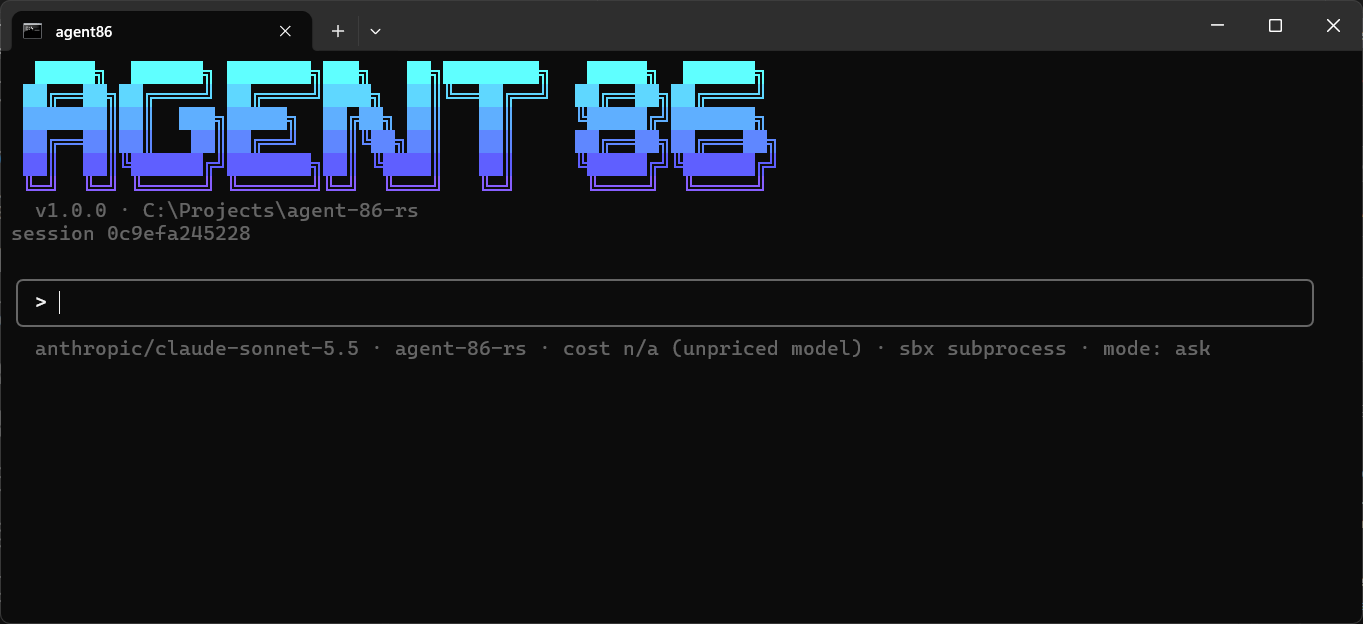
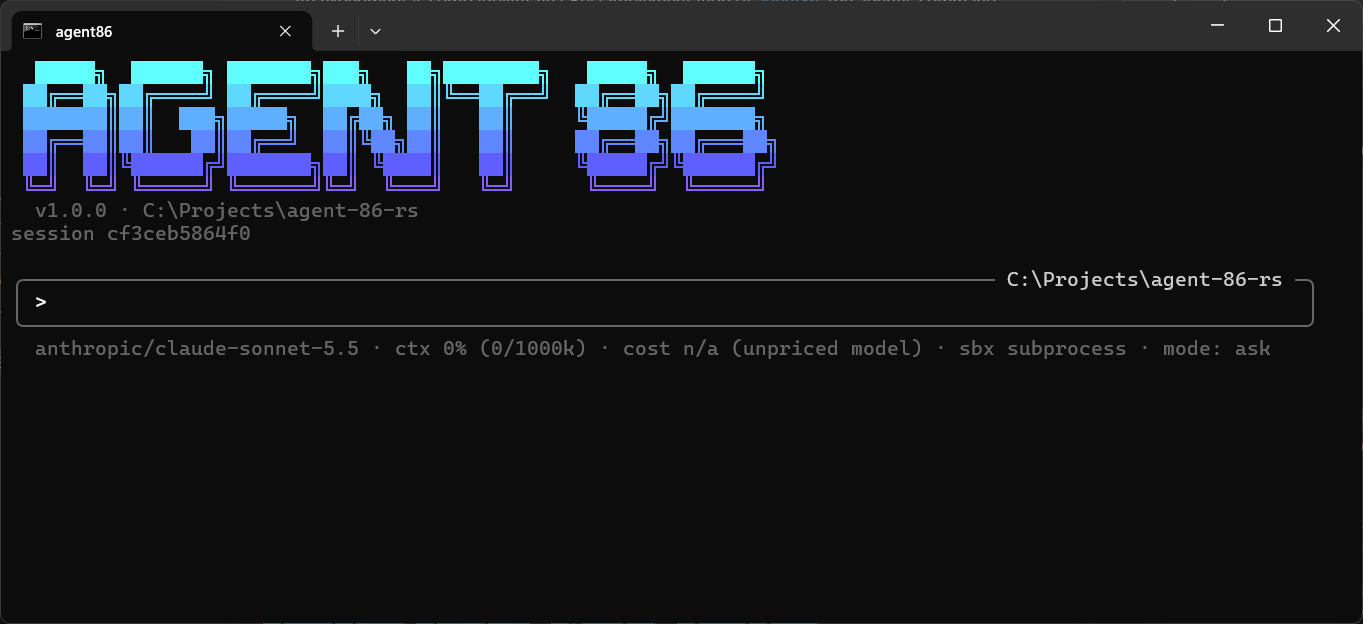
Move the working directory into the input box's border
On a terminal around 110 columns, the directory on the status line
pushed out the context gauge whenever the model name was long. The
status line goes back to Python's segments, and the directory is set
right-aligned into the input box's top border instead: always on screen,
never competing for the status line's width. A narrow box shows its last
component, then none. The README screenshot is retaken.

Changed region(s): [[0.2773, 0.5481, 0.9244, 0.5785], [0.7395, 0.4263, 0.9552, 0.4567], [0.0616, 0.3654, 0.1849, 0.3958]]

diff --git a/src/ui/input.rs b/src/ui/input.rs
@@ -6,7 +6,8 @@
 //! is kept while history is browsed and handed back past the newest entry. Any
 //! edit ends browsing: what is on screen is then the user's draft.
 
-use super::text::Line;
+use super::status::last_component;
+use super::text::{sanitize, Line};
 use crate::repl::Style;
 use unicode_width::UnicodeWidthChar;
 
@@ -260,8 +261,14 @@ impl Editor {
     }
 
     /// The bordered input box, `width` cells wide, and the caret within it.
-    /// `active` is false while a turn runs: the draft is kept but dimmed.
-    pub fn render(&mut self, width: usize, active: bool) -> (Vec<Line>, (usize, usize)) {
+    /// `active` is false while a turn runs: the draft is kept but dimmed. `title`
+    /// (the working directory, beyond Python) sits right-aligned in the top border.
+    pub fn render(
+        &mut self,
+        width: usize,
+        active: bool,
+        title: &str,
+    ) -> (Vec<Line>, (usize, usize)) {
         let width = width.max(8);
         // "│ > " before the text and " │" after it.
         let inner = width - 6;
@@ -274,7 +281,7 @@ impl Editor {
         let shown = &rows[self.scroll..rows.len().min(self.scroll + MAX_ROWS)];
         let border = Style::Dim;
         let text_style = if active { Style::Plain } else { Style::Dim };
-        let mut lines = vec![Line::styled(border, format!("╭{}╮", "─".repeat(width - 2)))];
+        let mut lines = vec![top_border(width, title)];
         for (index, row) in shown.iter().enumerate() {
             let lead = if self.scroll + index == 0 { "> " } else { "  " };
             let pad = inner.saturating_sub(unicode_width::UnicodeWidthStr::width(row.as_str()));
@@ -289,6 +296,29 @@ impl Editor {
         lines.push(Line::styled(border, format!("╰{}╯", "─".repeat(width - 2))));
         (lines, (1 + caret_row - self.scroll, 4 + caret_col))
     }
+}
+
+/// The box's top border with `title` set into it near the right corner. A title
+/// too long for the width falls back to its last component, then to none, so the
+/// border keeps at least a few cells of rule on the left.
+fn top_border(width: usize, title: &str) -> Line {
+    let title = sanitize(title);
+    let fits = |text: &str| {
+        let cells = unicode_width::UnicodeWidthStr::width(text);
+        (!text.is_empty() && cells + 8 <= width).then_some(cells)
+    };
+    let short = last_component(&title).to_owned();
+    let Some((title, cells)) = fits(&title)
+        .map(|cells| (title.clone(), cells))
+        .or_else(|| fits(&short).map(|cells| (short, cells)))
+    else {
+        return Line::styled(Style::Dim, format!("╭{}╮", "─".repeat(width - 2)));
+    };
+    // "╭" + rule + " title " + "─╮"
+    let rule = width - cells - 5;
+    Line::styled(Style::Dim, format!("╭{} ", "─".repeat(rule)))
+        .push(Style::Plain, title)
+        .push(Style::Dim, " ─╮")
 }
 
 #[cfg(test)]
@@ -381,13 +411,33 @@ mod tests {
     #[test]
     fn the_box_is_bordered_and_scrolls_past_eight_rows() {
         let mut editor = typed("hi");
-        let (lines, caret) = editor.render(20, true);
+        let (lines, caret) = editor.render(20, true, "");
         assert_eq!(lines[0].plain_text(), format!("╭{}╮", "─".repeat(18)));
         assert_eq!(lines[1].plain_text(), format!("│ > hi{} │", " ".repeat(12)));
         assert_eq!(caret, (1, 6));
         let mut tall = typed(&"x\n".repeat(12));
-        let (lines, caret) = tall.render(20, true);
+        let (lines, caret) = tall.render(20, true, "");
         assert_eq!(lines.len(), MAX_ROWS + 2);
         assert_eq!(caret.0, MAX_ROWS);
+    }
+
+    #[test]
+    fn the_working_directory_sits_in_the_top_border() {
+        let row = |width, title| top_border(width, title).plain_text();
+        assert_eq!(
+            row(30, "~/src/app"),
+            format!("╭{} ~/src/app ─╮", "─".repeat(16))
+        );
+        // Too long for the width: the last component, then a bare border.
+        assert_eq!(row(14, "~/src/app"), format!("╭{} app ─╮", "─".repeat(6)));
+        assert_eq!(row(10, "~/src/app"), format!("╭{}╮", "─".repeat(8)));
+        for width in [10, 14, 30] {
+            assert_eq!(
+                unicode_width::UnicodeWidthStr::width(row(width, "~/src/app").as_str()),
+                width
+            );
+        }
+        // Untrusted text from the filesystem cannot carry escape sequences.
+        assert!(!row(40, "~/a\x1b[31mb").contains('\x1b'));
     }
 }

diff --git a/src/ui/status.rs b/src/ui/status.rs
@@ -2,14 +2,10 @@
 //! `tui/widgets/status_footer.py` (how much of it fits).
 //!
 //! Under width pressure the line sheds, in order, the `[Shift+Tab]` hint (also in
-//! `/help`), the token counts (one `/cost` away), the working directory's parents
-//! (its last component stays), and the context gauge (the last to go, since a full
-//! window is the failure it exists to show). The model, the directory, the cost,
+//! `/help`), the token counts (one `/cost` away), and the context gauge (the last to
+//! go, since a full window is the failure it exists to show). The model, the cost,
 //! the approval mode, and the working indicator are never shed: they say what is
-//! running, where, what it costs, and whether it can act without asking.
-//!
-//! The working directory is beyond Python, whose status line has none: the banner
-//! that names it scrolls away, and the status line is the one row always on screen.
+//! running, what it costs, and whether it can act without asking.
 
 use std::path::Path;
 
@@ -18,15 +14,17 @@ use crate::tools::display_path;
 use crate::turn::human_tokens;
 use unicode_width::UnicodeWidthStr;
 
-/// Segment keys, in the order they are given up. `cwd` is shortened, not dropped.
-const SHED_ORDER: [&str; 4] = ["hint", "tok", "cwd", "ctx"];
+/// Segment keys, in the order they are given up.
+const SHED_ORDER: [&str; 3] = ["hint", "tok", "ctx"];
 
 /// What the status line reports, as Python's `StatusState`.
 #[derive(Debug, Clone, Default, PartialEq)]
 pub struct StatusState {
     /// The bare model id.
     pub model: String,
-    /// The working directory as shown (see `short_path`); empty shows none.
+    /// The working directory as shown (see `short_path`), beyond Python. It is not
+    /// part of the line: the input box's top border carries it, so it never
+    /// competes with the segments for width. Empty shows none.
     pub cwd: String,
     /// Input tokens of the latest model call: how full the context is.
     pub used_tokens: u64,
@@ -88,7 +86,7 @@ pub fn short_path(path: &Path, home: Option<&Path>) -> String {
 }
 
 /// The last component of a shown path (`~/src/app` → `app`).
-fn last_component(path: &str) -> &str {
+pub fn last_component(path: &str) -> &str {
     path.trim_end_matches(['/', '\\'])
         .rsplit(['/', '\\'])
         .next()
@@ -96,13 +94,9 @@ fn last_component(path: &str) -> &str {
         .unwrap_or(path)
 }
 
-/// The line's labelled parts, in display order, as Python's `status_segments`,
-/// plus the working directory after the model.
+/// The line's labelled parts, in display order, as Python's `status_segments`.
 pub fn status_segments(state: &StatusState) -> Vec<(&'static str, String)> {
     let mut segments = vec![("model", state.model.clone())];
-    if !state.cwd.is_empty() {
-        segments.push(("cwd", state.cwd.clone()));
-    }
     if state.working {
         let phase = if state.phase.is_empty() {
             "working"
@@ -163,15 +157,7 @@ pub fn fit_status_line(state: &StatusState, width: usize) -> String {
         return line;
     }
     for key in SHED_ORDER {
-        if key == "cwd" {
-            for (segment, text) in segments.iter_mut() {
-                if *segment == "cwd" {
-                    *text = last_component(text).to_owned();
-                }
-            }
-        } else {
-            segments.retain(|(segment, _)| *segment != key);
-        }
+        segments.retain(|(segment, _)| *segment != key);
         line = join_segments(&segments);
         if line.width() <= width {
             break;
@@ -253,18 +239,10 @@ mod tests {
     }
 
     #[test]
-    fn the_working_directory_follows_the_model_and_is_shortened_not_shed() {
+    fn the_working_directory_stays_off_the_line() {
         let mut here = state();
         here.cwd = "~/src/app".into();
-        let full = fit_status_line(&here, 0);
-        assert!(full.starts_with("gpt-4o-mini · ~/src/app · ctx "), "{full}");
-        let no_tokens = fit_status_line(&here, full.width() - 20);
-        assert!(no_tokens.contains(" · ~/src/app · "), "{no_tokens}");
-        let minimal = fit_status_line(&here, 10);
-        assert_eq!(
-            minimal,
-            "gpt-4o-mini · app · $0.0123 · sbx subprocess · mode: ask"
-        );
+        assert_eq!(fit_status_line(&here, 0), fit_status_line(&state(), 0));
     }
 
     #[test]

diff --git a/src/ui/app.rs b/src/ui/app.rs
@@ -1122,7 +1122,9 @@ impl App {
             });
             caret_base = 0;
         } else {
-            let (lines, (row, col)) = self.editor.render(width, self.running.is_none());
+            let (lines, (row, col)) =
+                self.editor
+                    .render(width, self.running.is_none(), &self.status.cwd);
             caret_base = bottom.len();
             if self.running.is_none() {
                 caret = Some((row, col));

diff --git a/docs/INTERFACE.md b/docs/INTERFACE.md
@@ -37,7 +37,7 @@ Non-goals:
 | Turns | Text the model streams, harness notices, `[cancelled]`, error type and message, the hint `see agent86 trace show -s <id>`, the turn summary line | Markers, colours, layout |
 | Tools | What a block shows: the name, the argument preview, the result's first line, and the full arguments and result when expanded; `ok` versus error colouring | `⏺`/`⎿` shape; expanded view lives in the transcript view |
 | Approvals | When a prompt appears, what it shows (tool name, argument summary, tool detail such as the diff), the answers (approve, deny, Escape denies), deny on shutdown | Inline panel with numbered choices |
-| Status line | Segments, their text, and the order they are shed under width pressure (`status_segments`, `fit_status_line`) | Where it sits and its colours; the working directory segment (beyond Python) |
+| Status line | Segments, their text, and the order they are shed under width pressure (`status_segments`, `fit_status_line`) | Where it sits and its colours |
 | Files | `memory.db`, the history file, config write-back (comments preserved, secret guard, user/project scope), keyring entries | — |
 | Startup | Surface selection rules, startup notes, MCP notes, the compact banner's content (version and model) | The header: a gradient `AGENT 86` wordmark over the version and working directory |
 | Cancellation | Safe points, saved state, `turn_end` status `cancelled` | Key hints in the spinner line |
@@ -67,10 +67,10 @@ memory: …   (startup notes, dim)              │  scrollback
                                               │
 ⏺ I found the typo on line 3.                 ┘
 ✻ Running edit_file… (14s · esc to interrupt)   ┐
-╭────────────────────────────────────────────╮  │
+╭──────────────────────────────────── ~/app ─╮  │
 │ > _                                        │  │  live region
 ╰────────────────────────────────────────────╯  │  (redrawn)
-  gpt-4o · ~/app · running edit_file… · sbx subprocess · mode: ask  [Shift+Tab]  ┘
+  gpt-4o · running edit_file… · sbx subprocess · mode: ask  [Shift+Tab]  ┘
 ```
 
 From top to bottom, the live region holds:
@@ -78,8 +78,8 @@ From top to bottom, the live region holds:
 1. **The streaming tail:** the part of the current reply that is not yet complete enough to commit (section 6). It is capped at about 40% of the screen height, like Python's `#stream`.
 2. **The spinner line,** only while a turn runs. It shows a spinner glyph, the phase (`Thinking…`, `Running edit_file…`, `Cancelling…`), and the elapsed time. The hint is `esc to interrupt`. With `[ui] spinner = false` the glyph is static.
 3. **A menu or a panel.** A menu (the `/` commands or `@` paths) sits under the input box. A panel (an approval or a picker) replaces the input box while it is open.
-4. **The input box:** bordered, one to eight rows, scrolling after eight, like Python's `PromptInput`. It is disabled while a turn runs, but it still shows its draft.
-5. **The status line:** Python's `fit_status_line` text plus the working directory after the model, dim, one row. The directory is never dropped; under width pressure it shrinks to its last component.
+4. **The input box:** bordered, one to eight rows, scrolling after eight, like Python's `PromptInput`. It is disabled while a turn runs, but it still shows its draft. Its top border carries the working directory, right-aligned (beyond Python; home as `~`, the last component when the box is narrow).
+5. **The status line:** Python's `fit_status_line` text, dim, one row.
 
 ## 4. Visual vocabulary
 

diff --git a/docs/PROJECT_PLAN.md b/docs/PROJECT_PLAN.md
@@ -74,7 +74,8 @@ The Python implementation remains the reference and compatibility oracle. This p
   - harness notices, dim, on their own line
   - each tool call shown while it runs, then committed as `⏺ name(args)` and `⎿ summary` when its result lands (Python's 72- and 100-character previews; red when the call failed)
   - a spinner line with the phase (`thinking`, `running <tool>`, `cancelling`) and the elapsed time
-  - Python's status line (model, context gauge, tokens, cost, sandbox, approval mode, `[Shift+Tab]`) plus the working directory after the model (beyond Python, home shown as `~`), which drops the hint, then the tokens, shortens the directory to its last component, then drops the gauge as the terminal narrows
+  - Python's status line (model, context gauge, tokens, cost, sandbox, approval mode, `[Shift+Tab]`), which drops the hint, then the tokens, then the gauge as the terminal narrows
+  - the working directory (beyond Python, home shown as `~`) set into the input box's top border, right-aligned, so it is always on screen without competing with the status line; a narrow box shows its last component, then none
   - side-effecting calls asked in an approval panel in place of the input box: the tool name, the argument summary, and the tool's detail, such as the diff; answered with `y`, `n`, Escape, or the arrows and Enter
   - Escape or Ctrl+C cancelling a running turn at its next safe point, and Shift+Tab cycling the approval mode, even mid-turn
   - MCP notes shown as they arrive, Python's error line with the `see agent86 trace show -s <id>` hint, and the turn summary

diff --git a/README.md b/README.md
@@ -4,7 +4,7 @@ An experimental, compatibility-first Rust implementation of [agent86](https://gi
 
 The Python implementation remains the reference. This repository starts with a small vertical foundation and adds behavior only with tests that make compatibility explicit.
 
-![The interactive interface at startup: the AGENT 86 header, the input box, and the status line with the model and working directory](docs/images/interface.png)
+![The interactive interface at startup: the AGENT 86 header, the input box with the working directory in its border, and the status line](docs/images/interface.png)
 
 ## Status
 
